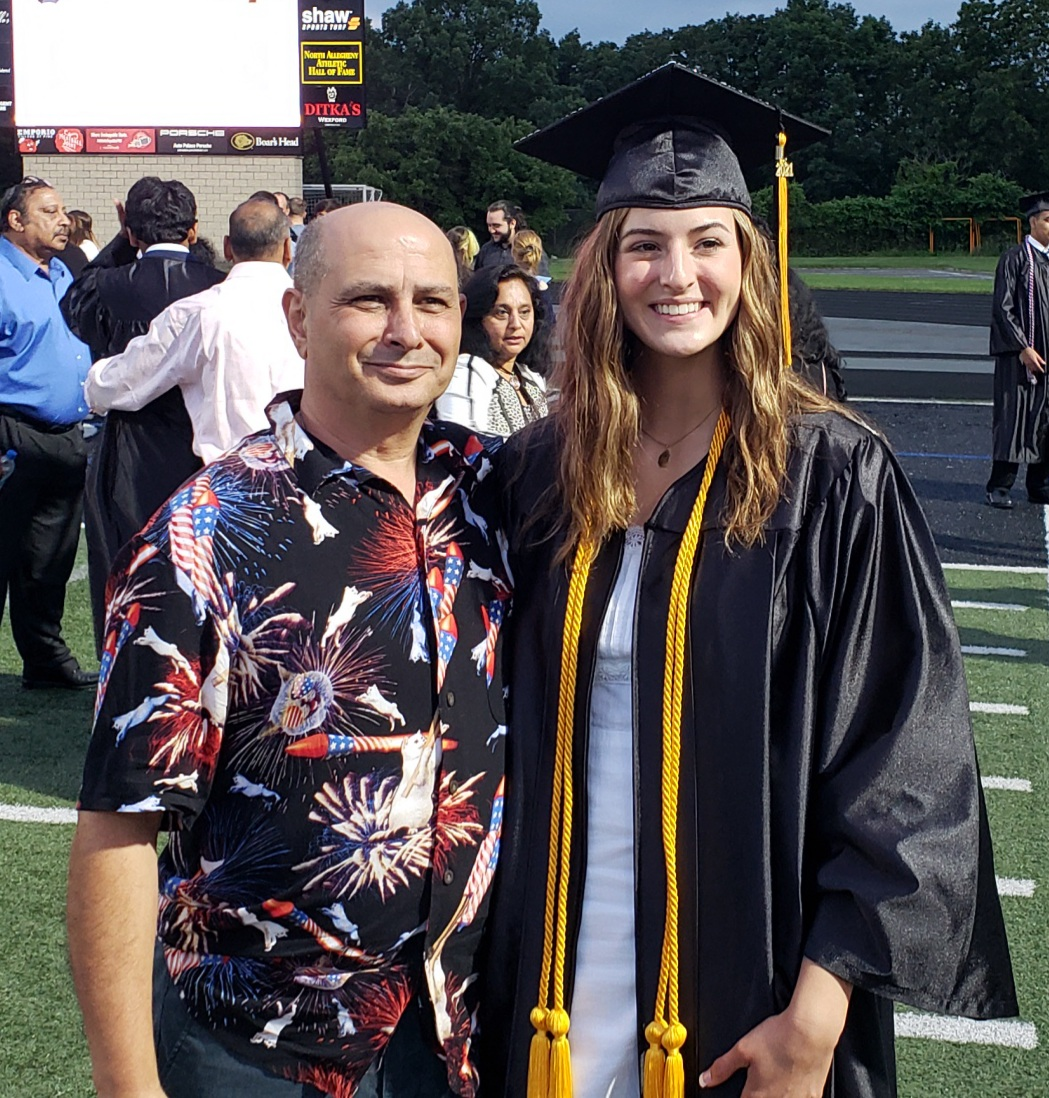
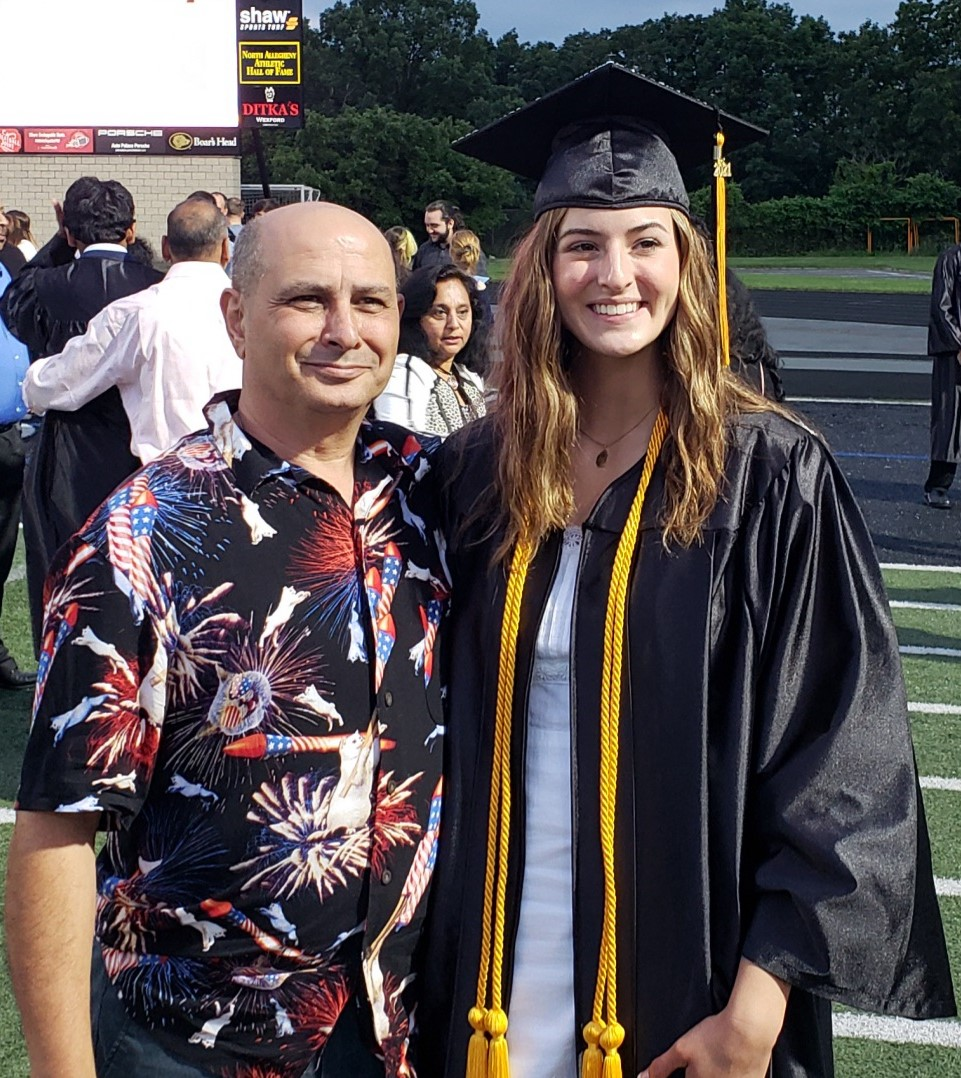
Grace

diff --git a/index.html b/index.html
@@ -25,11 +25,11 @@
 <body style="background-color: #339AFF" link="#FF0000" vlink="#FF0000" alink="#FF0000">
 
 <center>
-<p>	<img border=0 width=350 height=157 src="images/image001.gif"></p>
+<p>	<img border=0 width=375 height=157 src="images/image001.gif"></p>
 
 </center>
 <div align="center">
-<table border="1" width="850px">
+<table border="1" width="880px">
 	<tr align="center">
 		<br/>
 		<td>
@@ -134,9 +134,10 @@
 			
 		</td>
 
-	<td style="width: 660px">
+	<td style="width: 760px">
 		<p style="margin-top: 1px; margin-bottom: 1px">
-		<img alt="" height="590" src="images/2021.jpg" width="550"></td>
+		<img alt="" height="415" src="images/2021.jpg" width="380">
+		<img alt="" height="415" src="images/img1.jpg" width="300"></td>
 	</tr>
 </table>
 </div>
